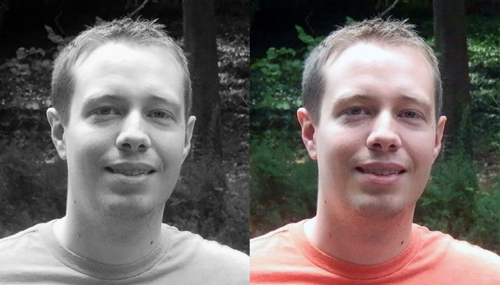
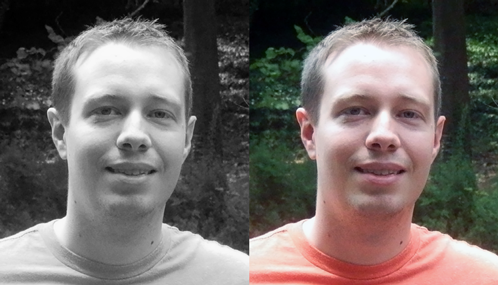
finished profile sprite

diff --git a/index.html b/index.html
@@ -51,7 +51,7 @@
                         <h1 class="heading" >All about me</h1>
                         <p>I graduated from the University of Southern Indiana with a Bachelors in Computer Information Systems. My HTML experience centered on table layouts and inline styling.  Since that time, I"ve worked in various tech support roles and have recently decided to get back into my main interest - coding!  I've been going through all Codecademy, Codeschool, Treehouse, and Udemy have to offer and soaking up as many resources as I can whenever I can - usually nights and weekends.  My emphasis has been in HTML5, CSS3, and JavaScript along with some Rails and Wordpress thrown in for good measure.</p>
                     </div>
-                    <img class="center right cold-xs-12 col-sm-4 col-md-4 col-lg-4 hidden-xs" src="img/steve.png" alt="Steve Plesha" />
+                    <div class="profile-pic right hidden-xs"></div>
                 </div>
             </div>
 		</section>  <!-- End of about section --> 

diff --git a/css/style.css b/css/style.css
@@ -6,7 +6,7 @@ body {
   font-size: 6rem; }
 
 ul {
-  /* Removing padding added by Chrome */
+  /* Remove padding added by Chrome */
   -webkit-padding-start: 0;
   -webkit-margin-before: 0;
   -webkit-margin-after: 0; }
@@ -123,10 +123,10 @@ main {
 
 .flipper {
   transition: 0.6s;
-  transform-style: preserve-3d;
   -moz-transform: perspective(1000px);
   -moz-transform-style: preserve-3d;
   -webkit-transform-style: preserve-3d;
+  transform-style: preserve-3d;
   position: relative;
   transform-origin: 100% 75px;
   text-align: center; }
@@ -255,6 +255,14 @@ footer {
   #contact {
     padding-top: 8rem;
     padding-bottom: 8rem; }
+
+  .profile-pic {
+    background: url("../img/steve.png") 0 0;
+    height: 285px;
+    width: 249px;
+    border: 4px solid white; }
+    .profile-pic:hover {
+      background: url("../img/steve.png") -249px 0; }
 
   .portfolio-item {
     margin-bottom: 5rem; }

diff --git a/css/style.scss b/css/style.scss
@@ -285,6 +285,14 @@ footer {
         padding-top: 8rem;
         padding-bottom: 8rem;
     }
+    
+    .profile-pic {
+        background: url("../img/steve.png") 0 0;
+        height: 285px;
+        width: 249px;
+        border: 4px solid rgb( 255, 255, 255 );
+        &:hover { background: url("../img/steve.png") -249px 0; }
+    }
 
    .portfolio-item {
         margin-bottom: 5rem;
